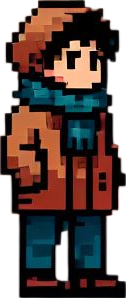
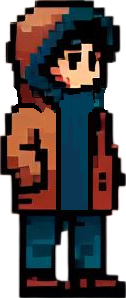
walking man

Changed region(s): [[0.0476, 0.0, 0.9762, 0.7248], [0.8095, 0.2718, 0.9048, 0.3926]]

diff --git a/Sketch.java b/Sketch.java
@@ -8,7 +8,11 @@ public class Sketch extends PApplet {
   PImage imgStandStill;
 
   float[] circleY = new float[75];
+
   int intSnowSpeed = 1;
+
+  int intManX = 375;
+  int intMaxY = 600;
 	
   public void settings() {
     size(750, 750);
@@ -35,9 +39,27 @@ public class Sketch extends PApplet {
   public void draw() {
     image(imgBackground, 0, 0);
     
-    image(imgWalkRight, 100, 600);
-    image(imgWalkLeft, 300, 600);
-    image(imgStandStill, 500, 600);
+    if(keyPressed){
+      if(key == 'a'){
+        image(imgWalkLeft, intManX, 600);
+
+        intManX -= 5;
+      }
+
+      else if(key == 'd'){
+        image(imgWalkRight, intManX, 600);
+
+        intManX += 5;
+      }
+
+      else{
+        image(imgStandStill, intManX, 600);
+      }
+    }
+
+    else{
+      image(imgStandStill, intManX, 600);
+    }
 
     for (int i = 0; i < circleY.length; i++) {
       float circleX = width * i / circleY.length;
